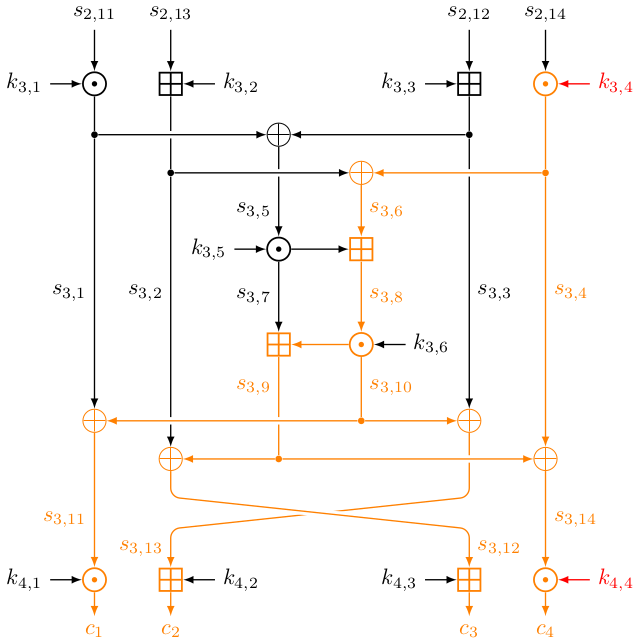
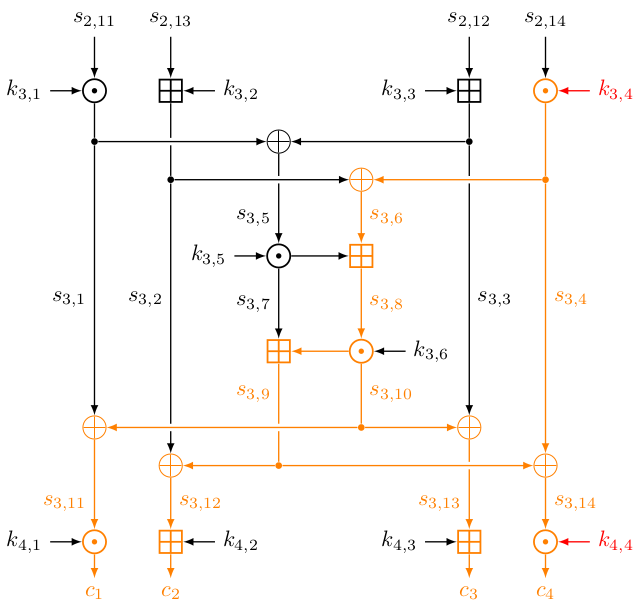
✨ New content for 2024.06.24 16:57:02

Changed region(s): [[0.0, 0.0, 1.0, 0.9935], [0.0, 0.8693, 0.0596, 0.9314]]

diff --git a/posts/2024/2024-06-24-google-ctf-3/index.html b/posts/2024/2024-06-24-google-ctf-3/index.html
@@ -201,12 +201,21 @@ So bruce for impact as we may patent our new proposed encryption standard.</p>
 </div>
 
 <p>Section 4.2 of J. Kelsey, B. Schneier, D. Wagner&rsquo;s paper<sup id="fnref:1"><a href="#fn:1" class="footnote-ref" role="doc-noteref">1</a></sup> has a brief solution on how to recover the key. Our solution intends to optimize the algorithm by reducing the number of ciphertexts required, as well as the running time by using multiple strategies like meet-in-the-middle.</p>
-<p>The below figure shows one round of the IDEA cipher. In our reduced-round scenario, we have $(m_1, m_2, m_3, m_4) = (s_{0, 11}, s_{0, 13}, s_{0, 12}, s_{0, 14})$ and $(c_1, c_2, c_3, c_4) = (s_{4, 1}, s_{4, 2}, s_{4, 3}, s_{4, 4})$ being respectively the plaintext and the ciphertext.</p>
+<p>The below figure shows one round of the IDEA cipher. In our reduced-round scenario, we have $(m_1, m_2, m_3, m_4) = (s_{0, 11}, s_{0, 13}, s_{0, 12}, s_{0, 14})$ and $(c_1, c_2, c_3, c_4) = (s_{4, 1}, s_{4, 2}, s_{4, 3}, s_{4, 4})$ being respectively the plaintext and the ciphertext. Note that for the last round, we have $s_{3, 12} \boxplus k_{4, 2} = c_2$ and $s_{3, 13} \boxplus k_{4, 3} = c_3$ instead of $s_{3, 13} \boxplus k_{4, 2} = c_2$ and $s_{3, 12} \boxplus k_{4, 3} = c_3$.</p>
 
   <figure class="center" >
     <img src="/images/2024-06-24-google-ctf/idea-one-round.png"   />
     
       <figcaption class="right" >One round of the IDEA cipher.</figcaption>
+    
+  </figure>
+
+
+
+  <figure class="center" >
+    <img src="/images/2024-06-24-google-ctf/idea-last-round.png"   />
+    
+      <figcaption class="right" >The last round of the IDEA cipher. The edges $s_{3, 12}$ and $s_{3, 13}$ are not crossed.</figcaption>
     
   </figure>
 
@@ -266,7 +275,7 @@ So bruce for impact as we may patent our new proposed encryption standard.</p>
 </tbody>
 </table>
 <p>We can view the usage of $K$&rsquo;s bits. For instance, the most significant bit (bit 127) of $K$ will be used by three subkeys: $k_{1, 1}$, $k_{3, 3}$ and $k_{4, 3}$, bit 109 is only used twice, however, by $k_{1, 2}$ and $k_{3, 4}$.</p>
-<h3 id="step-1-recovering-k_4-1-and-k_4-3">Step 1: Recovering $k_{4, 1}$ and $k_{4, 3}$<a href="#step-1-recovering-k_4-1-and-k_4-3" class="hanchor" ariaLabel="Anchor">&#8983;</a> </h3>
+<h3 id="step-1-recovering-k_4-1-and-k_4-3-with-a-bit-flip-and-4-calls">Step 1: Recovering $k_{4, 1}$ and $k_{4, 3}$ with a bit flip and 4 calls<a href="#step-1-recovering-k_4-1-and-k_4-3-with-a-bit-flip-and-4-calls" class="hanchor" ariaLabel="Anchor">&#8983;</a> </h3>
 <p>To recover $k_{4, 1}$ and $k_{4, 3}$, we can compute:</p>
 <p>$$
 \begin{aligned}
@@ -337,10 +346,10 @@ $$</p>
 
     <span style="color:#66d9ef">return</span> new_candidate_key_list
 </code></pre></div><div class="alert success">
-  📊 <strong>Status:</strong> 32/128 key bits recovered; 2 key bits flipped and 4 ciphertexts computed.
+  📊 <strong>Status:</strong> 32/128 key bits recovered; 1 key bit flipped and 4 ciphertexts computed.
 </div>
 
-<h3 id="step-2-recovering-k_1-1">Step 2: Recovering $k_{1, 1}$<a href="#step-2-recovering-k_1-1" class="hanchor" ariaLabel="Anchor">&#8983;</a> </h3>
+<h3 id="step-2-recovering-k_1-1-with-2-bit-flips-and-512-calls">Step 2: Recovering $k_{1, 1}$ with 2 bit flips and 512 calls<a href="#step-2-recovering-k_1-1-with-2-bit-flips-and-512-calls" class="hanchor" ariaLabel="Anchor">&#8983;</a> </h3>
 <p>Now we want to recover $k_{1, 1}$. To do so, we let $K'' = K \oplus 2^{112}$. Now only $k_{1,1}$, $k_{3,4}$ and $k_{4,4}$ differ and $k''_{1,1} = k_{1,1} \oplus 1$.</p>
 <p>Let $c^{(\text{D})}$ and $c^{(\text{E})}$ be ciphertexts encrypted with key $K$ and $K''$, respectively. This time we want to make $s^{(\text{D})}_{1,1} = s^{(\text{E})}_{1,1}$, i.e., $m^{(\text{D})}_1 \odot k_{1,1} = s^{(\text{D})}_{1,1} = s^{(\text{E})}_{1,1} = m^{(\text{E})}_1 \odot (k_{1,1} \oplus 1)$. We do not have a deterministic way to set $m^{(\text{D})}_1$ and $m^{(\text{E})}_1$ because $k_{1,1}$ is unknown. However, we can obtain</p>
 <p>$$
@@ -406,10 +415,10 @@ $$</p>
 
     <span style="color:#66d9ef">return</span> new_candidate_key_list
 </code></pre></div><div class="alert success">
-  📊 <strong>Status:</strong> 46/128 key bits recovered; 4 key bits flipped and 516 ciphertexts computed.
+  📊 <strong>Status:</strong> 46/128 key bits recovered; 3 key bits flipped and 516 ciphertexts computed.
 </div>
 
-<h3 id="step-3-recovering-k_4-2-and-k_4-4">Step 3: Recovering $k_{4, 2}$ and $k_{4, 4}$<a href="#step-3-recovering-k_4-2-and-k_4-4" class="hanchor" ariaLabel="Anchor">&#8983;</a> </h3>
+<h3 id="step-3-recovering-k_4-2-and-k_4-4-with-2-bit-flips-and-2-calls">Step 3: Recovering $k_{4, 2}$ and $k_{4, 4}$ with 2 bit flips and 2* calls<a href="#step-3-recovering-k_4-2-and-k_4-4-with-2-bit-flips-and-2-calls" class="hanchor" ariaLabel="Anchor">&#8983;</a> </h3>
 <div class="alert warning">
   🧩 <strong>What 2* oracle calls?</strong> The number of oracle calls is twice the number of possible $k_{1, 1}$&rsquo;s we have after step 2. $k_{1, 1}$ is usually unique, but it is probable that there are ten possible $k_{1, 1}$&rsquo;s.
 </div>

diff --git a/posts/2024/2024-06-24-google-ctf-1/index.html b/posts/2024/2024-06-24-google-ctf-1/index.html
@@ -225,7 +225,7 @@ Note over Client: Knows that id ∈ S if\neid' := eidᵢ for some i.
 
 </div>
 
-<p>Assume that we want to check if $\{2, 3\} \subseteq S$. We can send $\text{eid} := \text{H}(2) + \text{H}(3)$ to the server. The server then responds us with $(\text{eid}_1, \text{eid}_2, &hellip;, \text{eid}_n, \text{deid})$. We then can search for $i, j \in {0, 1, &hellip;, 255}$ such that $\text{eid}_i + \text{eid}_j = \text{deid}$. If such $(i, j)$ exists, we can claim that $\{2, 3\} \subseteq S$.</p>
+<p>Assume that we want to check if $\{2, 3\} \subseteq S$. We can send $\text{eid} := \text{H}(2) + \text{H}(3)$ to the server. The server then responds us with $(\text{eid}_1, \text{eid}_2, &hellip;, \text{eid}_n, \text{deid})$. We then can search for $i, j \in \{1, 2, &hellip;, 256\}$ such that $\text{eid}_i + \text{eid}_j = \text{deid}$. If such $(i, j)$ exists, we can claim that $\{2, 3\} \subseteq S$.</p>
 <h3 id="recover-x-with-only-two-calls">Recover $x$ with only two calls<a href="#recover-x-with-only-two-calls" class="hanchor" ariaLabel="Anchor">&#8983;</a> </h3>
 <p>We can send $\text{eid} := \text{H}(2) + \text{H}(4) + &hellip; + \text{H}(256)$ and $\text{eid}' := \text{H}(1) + \text{H}(3) + &hellip; + \text{H}(255)$ to the server. Let $(\text{eid}_1, \text{eid}_2, &hellip;, \text{eid}_{255}, \text{deid})$ and $(\text{eid}'_1, \text{eid}'_2, &hellip;, \text{eid}'_{255}, \text{deid}')$ be the corresponding responses from the server.</p>
 <ol>
@@ -235,7 +235,7 @@ Note over Client: Knows that id ∈ S if\neid' := eidᵢ for some i.
 <p>For instance, we can determine if $x = 15$ by checking whether</p>
 <p>$$(\text{eid}_2 + \text{eid}_4 + &hellip; +\text{eid}_{14}) + (\text{eid}_{15} + \text{eid}_{17} + &hellip; + \text{eid}_{255}) = \text{deid}.$$</p>
 <p>We can likewise learn if $x = 24$ with</p>
-<p>$$(\text{eid}'_1) + \text{eid}'_3 + &hellip; + \text{eid}'_{23}) + (\text{eid}'_{24} + \text{eid}'_{26} + &hellip; + \text{eid}'_{254}) = \text{deid}'.$$</p>
+<p>$$(\text{eid}'_1 + \text{eid}'_3 + &hellip; + \text{eid}'_{23}) + (\text{eid}'_{24} + \text{eid}'_{26} + &hellip; + \text{eid}'_{254}) = \text{deid}'.$$</p>
 <p>Therefore we can recover $x$ with two oracle calls. Repeating the progress 16 times, we have the flag: <code>CTF{pr1v4t3_s3t_m3mb3rsh1p_qu3r135_m3d4_m0r3_p0w3rfu1}</code>.</p>
 
       </div></div>

diff --git a/crypto-in-ctf/2022-q3/index.html b/crypto-in-ctf/2022-q3/index.html
@@ -817,8 +817,8 @@ Qy = 400318997929211178980655332518284307371175652959089080115156520541977149672
 
 
   <div class="collapsable-code">
-    <input id="948675213" type="checkbox" checked />
-    <label for="948675213">
+    <input id="876492351" type="checkbox" checked />
+    <label for="876492351">
       <span class="collapsable-code__language">python</span>
       <span class="collapsable-code__title">Persian cat cipher</span>
       <span class="collapsable-code__toggle" data-label-expand="[△]" data-label-collapse="[▽]"></span>
@@ -1506,8 +1506,8 @@ h <span style="color:#f92672">=</span> <span style="color:#ae81ff">2017210894190
 
 
   <div class="collapsable-code">
-    <input id="926183457" type="checkbox" checked />
-    <label for="926183457">
+    <input id="491735286" type="checkbox" checked />
+    <label for="491735286">
       <span class="collapsable-code__language">python</span>
       <span class="collapsable-code__title">Spiral</span>
       <span class="collapsable-code__toggle" data-label-expand="[△]" data-label-collapse="[▽]"></span>

diff --git a/posts/2021/2021-01-29-hoifanrds-osu-challenge/index.html b/posts/2021/2021-01-29-hoifanrds-osu-challenge/index.html
@@ -372,8 +372,8 @@
 
 
   <div class="collapsable-code">
-    <input id="195842637" type="checkbox" checked />
-    <label for="195842637">
+    <input id="718326594" type="checkbox" checked />
+    <label for="718326594">
       <span class="collapsable-code__language">text</span>
       
       <span class="collapsable-code__toggle" data-label-expand="[△]" data-label-collapse="[▽]"></span>
@@ -462,8 +462,8 @@ I like playing puzzle...
 
 
   <div class="collapsable-code">
-    <input id="437896215" type="checkbox" checked />
-    <label for="437896215">
+    <input id="836597412" type="checkbox" checked />
+    <label for="836597412">
       <span class="collapsable-code__language">text</span>
       
       <span class="collapsable-code__toggle" data-label-expand="[△]" data-label-collapse="[▽]"></span>

diff --git a/posts/2024/2024-01-27-hkcert-ctf-3/index.html b/posts/2024/2024-01-27-hkcert-ctf-3/index.html
@@ -577,8 +577,8 @@ MOV [R8+0x400587], 0x4c
 
 
   <div class="collapsable-code">
-    <input id="985416723" type="checkbox" checked />
-    <label for="985416723">
+    <input id="436795218" type="checkbox" checked />
+    <label for="436795218">
       <span class="collapsable-code__language">c</span>
       <span class="collapsable-code__title">Source code for game.c</span>
       <span class="collapsable-code__toggle" data-label-expand="[△]" data-label-collapse="[▽]"></span>
